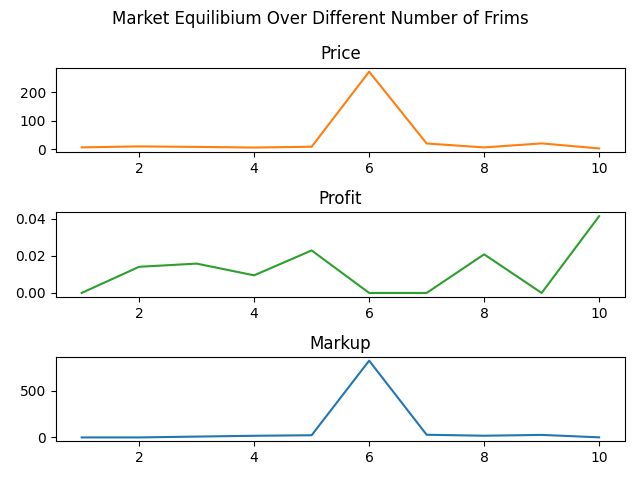
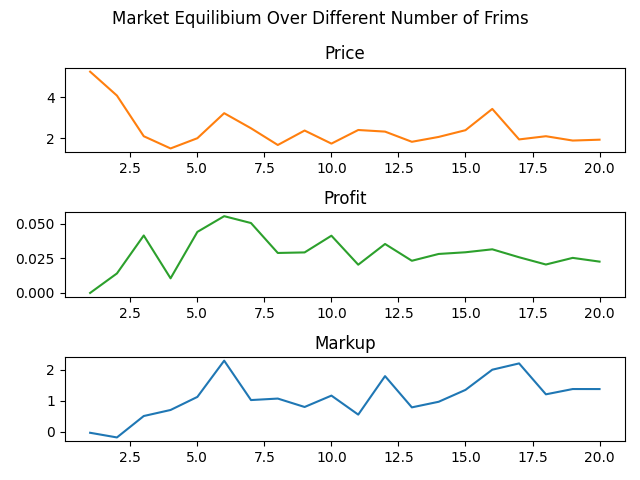
Working to generalized number of product characteristics

diff --git a/simulations/firm.py b/simulations/firm.py
@@ -16,8 +16,8 @@ def sum_utility(beta, X, price, alpha):
     sum_u_exp = sum(np.exp(beta[0] + alpha*price + beta[1]*X))
     return sum_u_exp
 
-def probability(beta, X, price, alpha): 
-    q = (np.exp(beta[0] + alpha*price + beta[1]*X))/(1 + sum(np.exp(beta[0] + alpha*price + beta[1]*X)))
+def probability(price, alpha, X, beta): 
+    q = (np.exp(X@beta + alpha*price))/(1 + sum(np.exp(X@beta + alpha*price)))
     return q
 
 def profit(price, beta, X,  alpha, c):
@@ -41,9 +41,8 @@ def cross_elasticities(beta, X, price, alpha):
     return elasticity_cross
 
 
-def derivative(N, beta, X, price, alpha):
-    share = probability(beta, X, price, alpha)
-    J = np.zeros((N, N)) 
+def derivative(N, alpha, share):
+    J = np.zeros((N, N))
     for i in range(J.shape[0]):
         for j in range(J.shape[1]):
             if i == j: 
@@ -52,10 +51,9 @@ def derivative(N, beta, X, price, alpha):
                 J[i, j] = -alpha*share[i]*share[j]
     return J
 
-
-def root_objective(price, N, beta, X, alpha, c):
-    share = probability(beta, X, price, alpha)
-    J = derivative(N, beta, X, price, alpha) 
+def root_objective(price, N, X, beta, alpha, c):
+    share = (np.exp(X@beta + alpha*price))/(1 + sum(np.exp(X@beta + alpha*price)))
+    J = derivative(N, alpha, share) 
     optim = np.matmul(np.transpose(J), (price - c)) + share
     return optim
 

diff --git a/simulations/generalization.py b/simulations/generalization.py
@@ -1,0 +1,33 @@
+import numpy as np
+import pandas as pd
+import matplotlib.pyplot as plt
+import scipy as sp
+import scipy.stats
+from scipy.optimize import minimize
+from scipy.optimize import fsolve
+import matplotlib.pyplot as plt
+import firm
+
+np.random.seed(8)
+# The number of firms in the market
+N = 10
+
+# The number of product characteristics
+J = 2
+
+# put in the true param because the firm actually knows them
+beta = np.array([2., -0.611, -0.528])
+alpha = -2.71
+
+
+p = np.ones(N)
+c = np.random.lognormal(0, 1, size = N)
+Xj = np.random.lognormal(0, 1, size = (N, J)) 
+X0 = np.ones(N)
+X = np.column_stack((X0, Xj))
+
+
+res1 = scipy.optimize.root(firm.root_objective, p, args=(N, X, beta, alpha, c), method = 'broyden2')
+optimal_price = res1.x
+print(optimal_price)
+print(X)

diff --git a/simulations/multiple_firms_equil.py b/simulations/multiple_firms_equil.py
@@ -16,7 +16,7 @@ np.random.seed(7)
 # This should work for normalized consumer mass to 1 
 
 # define the global parameter and the global number of firms 
-N = 10
+N = 20
 
 # put in the true param because the firm actually knows them
 beta = [2., -0.611]
@@ -35,7 +35,7 @@ for n in range(1, N+1, 1):
     e = np.random.gumbel(0, 1, size = n)
 
     # getting all the values of interest at the optimal price
-    res1 = scipy.optimize.root(firm.root_objective, p, args=(n, beta, X, alpha, c), method = 'hybr')
+    res1 = scipy.optimize.root(firm.root_objective, p, args=(n, beta, X, alpha, c), method = 'broyden2')
     optimal_price = res1.x
     profit = firm.profit(optimal_price, beta, X, alpha, c)
     markup = firm.markup(optimal_price, c)
